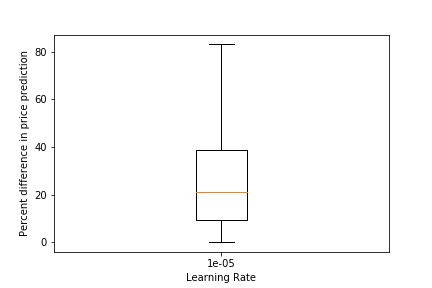
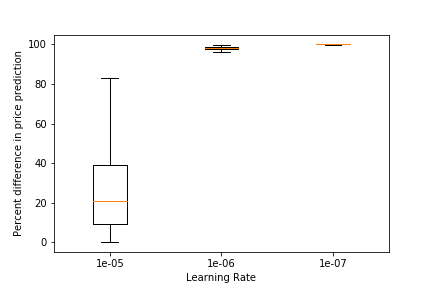
part 2 done, need to test with more epochs

diff --git a/part_2.py b/part_2.py
@@ -1,0 +1,309 @@
+"""
+Author: Masafumi Endo
+Date: 2019/10/13
+Version: Python 3.6
+"""
+
+import numpy as np
+import pandas as pd
+import matplotlib.pyplot as plt
+
+
+class LinearRegression:
+
+    # Public method
+    def train(self, x_train, y_train, lr, regularization, epsilon):
+
+        #weight = np.random.random_sample(x_train.shape[1])
+        weight = np.zeros(x_train.shape[1])
+        weight_ref = weight
+
+        error_train = self.__calc_error(x_train, y_train, weight)
+        error_train_normalize = error_train / x_train.shape[0]
+        error_train_pre = error_train
+
+        epoch = 1
+        max_epoch = 10
+        count = 0  # To check whether exploding
+        flag_div = False
+
+        while True:
+            gradient = 0
+
+            for j in range(x_train.shape[0]):
+                _x = x_train[j, :]
+                _y = y_train[j]
+                _z = self.__regression(_x, weight)
+
+                _gradient = - 2 * (_y - _z) * _x
+                gradient += _gradient
+
+            # gradient_normalize = gradient / (x_train.shape[0])gradient_normalize
+            gradient += 2 * regularization * weight
+
+            # Weight update
+            weight = weight - lr * gradient
+
+            # Calculate training error
+            _error_train = self.__calc_error(x_train, y_train, weight)          # SSE
+            _error_train_normalize = _error_train / x_train.shape[0]
+            error_train_normalize = np.append(error_train_normalize, _error_train_normalize)
+
+            norm_gradient = np.sqrt(np.dot(gradient, gradient))  # Norm of the gradient
+            #print(_error_train)
+
+            # Save weight at each epoch for calculating validation error
+            weight_ref = np.append(weight_ref, weight)
+
+            if error_train_pre < _error_train:
+                count += 1
+                error_train_pre = _error_train
+            else:
+                count = 0
+                error_train_pre = _error_train
+
+            if norm_gradient <= epsilon or epoch > max_epoch or count > 9:
+                if count > 9:
+                    flag_div = True
+                break
+            
+            epoch += 1
+
+        weight_ref = np.reshape(weight_ref, (-1, x_train.shape[1]))
+
+        return weight, weight_ref, error_train_normalize, epoch, flag_div
+
+    def valid(self, x_valid, y_valid, weight_ref, epoch):
+
+        error_valid = np.zeros(epoch)
+
+        # Loop for computing error
+        for i in range(epoch):
+            _weight = weight_ref[i, :]
+            error_valid[i] = self.__calc_error(x_valid, y_valid, _weight)
+
+        error_valid_normalize = error_valid # / x_valid.shape[0]
+        return error_valid_normalize
+
+    def predict(self, x_test, weight, x_min, x_max):
+
+        num = x_test.shape[0]
+        y_test = np.zeros(num)
+
+        for i in range(num):
+            y_test[i] = self.__regression(x_test[i, :], weight)
+            y_test[i] = (x_max - x_min) * y_test[i] + x_min  # Reverse the normalization
+         #   print("Predicted cost is $", y_test[i], ".")
+
+        return y_test
+
+    def error_graph(self, figname, error,  flag_div, title):
+
+        if flag_div == True: 
+            fig = plt.figure()
+            plt.plot(np.arange(0, error.shape[0]), error)
+            
+            plt.xlabel('epoch')
+            plt.ylabel('loss')
+           
+            plt.yscale('log')
+            plt.xscale('log')
+            plt.title(str(title))
+            plt.savefig('figure_part2/' + figname, bbox_inches = "tight")
+            plt.close(fig)
+            
+        else:
+            fig = plt.figure()
+            plt.plot(np.arange(0, error.shape[0]), error)
+            plt.xlabel('epoch')
+            plt.ylabel('loss')
+            plt.title(str(title))
+            plt.savefig('figure_part2/' + figname, bbox_inches = "tight")
+            plt.close(fig)
+
+    def __regression(self, x, weight):
+
+        return np.dot(x, weight)
+
+    def __calc_error(self, x, y, weight):
+
+        num = x.shape[0]
+        error = 0.
+
+        # Loop for calculating error at each target
+        for i in range(num):
+            _x = x[i, :]
+            _y = y[i]
+
+            _z = self.__regression(_x, weight)
+            error += (_y - _z) ** 2
+
+        return error
+
+    def plot_sse_epoch(self, dict_sse, title):
+        fig = plt.figure()
+        for r in dict_sse:
+            plt.plot(dict_sse[r], label=str(r))
+        plt.xlabel('epoch')
+        plt.ylabel('SSE')
+        plt.legend()
+        plt.yscale('log')
+        plt.xscale('log')
+        #plt.show()
+        plt.savefig('figure_part2/{}_sse_epoch_reg.png'.format(title), bbox_inches = "tight")
+        plt.close(fig)
+
+    def percent_diff(self, y_actual, y_pred):
+        percent_diff = 100*(np.abs(y_actual - y_pred)) / y_actual #absolute percent difference
+        return percent_diff
+        
+    def plot_box_r(self, dict_error):
+        fig = plt.figure()
+        
+        # or backwards compatable    
+        labels, data = dict_error.keys(), dict_error.values()
+        
+        plt.boxplot(data, showfliers=False)
+        plt.xticks(range(1, len(labels) + 1), labels)        
+        plt.xlabel('Regularization')
+        plt.ylabel('Percent difference in price prediction')
+        #plt.show()
+        plt.savefig('figure_part2/percent_diff_boxplot.png', bbox_inches = "tight")
+        plt.close(fig)
+
+class FeatureEngineering:
+
+    def train(self, path):
+        df = pd.read_csv(path)
+        x = df.drop(['dummy', 'id'], axis=1)
+
+        x_datetime = pd.to_datetime(x['date'], infer_datetime_format=True)
+        x_year, x_month, x_day = x_datetime.dt.year, x_datetime.dt.month, x_datetime.dt.day
+        x_date = pd.DataFrame({'year': x_year, 'month': x_month, 'day': x_day})
+        x = x.drop(['date'], axis=1)
+        x = pd.concat([x_date, x], axis=1)
+
+        x_min = x.min()
+        x_max = x.max()
+
+        x_normalized = (x - x_min) / (x_max - x_min)
+
+       # x_id = df.loc[:, 'dummy']  # Dummy variable
+       # x_normalized = pd.concat([x_id, x_normalized], axis=1)  # Add dummy
+        y = x_normalized.loc[:, 'price']
+        x_normalized = x_normalized.drop(['price'], axis=1)  # Remove price
+
+        x, y = x_normalized.values, y.values
+
+        return x, y, x_min, x_max
+
+    def valid(self, path, x_min, x_max):
+        df = pd.read_csv(path)
+        x = df.drop(['dummy', 'id'], axis=1)
+
+        x_datetime = pd.to_datetime(x['date'], infer_datetime_format=True)
+        x_year, x_month, x_day = x_datetime.dt.year, x_datetime.dt.month, x_datetime.dt.day
+        x_date = pd.DataFrame({'year': x_year, 'month': x_month, 'day': x_day})
+        x = x.drop(['date'], axis=1)
+        x = pd.concat([x_date, x], axis=1)
+
+        x_normalized = (x - x_min) / (x_max - x_min)
+
+       # x_id = df.loc[:, 'dummy']
+       # x_normalized = pd.concat([x_id, x_normalized], axis=1)
+
+        y = x_normalized.loc[:, 'price']
+        x_normalized = x_normalized.drop(['price'], axis=1)  # Remove price
+
+        x, y = x_normalized.values, y.values
+
+        return x, y
+
+    def predict(self, path, x_min, x_max):
+        x_min = x_min.drop(['price'])
+        x_max = x_max.drop(['price'])
+
+        df = pd.read_csv(path)
+        x = df.drop(['dummy', 'id'], axis=1)
+
+        x_datetime = pd.to_datetime(x['date'], infer_datetime_format=True)
+        x_year, x_month, x_day = x_datetime.dt.year, x_datetime.dt.month, x_datetime.dt.day
+        x_date = pd.DataFrame({'year': x_year, 'month': x_month, 'day': x_day})
+        x = x.drop(['date'], axis=1)
+        x = pd.concat([x_date, x], axis=1)
+
+        x_normalized = (x - x_min) / (x_max - x_min)
+      #  x_id = df.loc[:, 'dummy']
+       # x_normalized = pd.concat([x_id, x_normalized], axis=1)
+
+        x = x_normalized.values
+
+        return x
+
+#def main():
+
+
+
+if __name__ == '__main__':
+    #main()
+
+    feature_eng = FeatureEngineering()
+
+#    x_train, y_train, x_min, x_max = feature_eng.train('C:\Fall 2019\CS534_MachineLearning\PA1_train.csv')
+#    x_valid, y_valid = feature_eng.valid('C:\Fall 2019\CS534_MachineLearning\PA1_dev.csv', x_min, x_max)
+#    x_test = feature_eng.predict('C:\Fall 2019\CS534_MachineLearning\PA1_test.csv', x_min, x_max)
+
+    x_train, y_train, x_min, x_max = feature_eng.train('PA1_train.csv')
+    x_valid, y_valid_true = feature_eng.valid('PA1_dev.csv', x_min, x_max)
+    x_test = feature_eng.predict('PA1_test.csv', x_min, x_max)
+
+
+    regularization = [0, 1e-3, 1e-2, 1e-1, 1, 10, 100]
+    epsilon = 0.5
+    lr = 1e-5
+    
+    features = x_min.index
+    features = features[:-1]
+    
+    dict_valid_sse = {} 
+    dict_train_sse = {}
+    dict_pred = {}
+    df_weight = pd.DataFrame(index = features, columns = regularization)
+    df_sse = pd.DataFrame(index=regularization, columns = ["Train SSE", "Validation SSE"])
+
+    for r in regularization:
+        print(r)
+        linear_regression = LinearRegression()
+
+        weight, weight_ref, error_train_normalize, epoch, flag_div = linear_regression.train(x_train, y_train, lr, r, epsilon)
+        error_valid_normalize = linear_regression.valid(x_valid, y_valid_true, weight_ref, epoch)
+
+        linear_regression.error_graph('train_error_reg{}.png'.format(r), error_train_normalize, flag_div, "Training SSE")
+        linear_regression.error_graph('valid_error_reg{}.png'.format(r), error_valid_normalize, flag_div, "Validation SSE")
+        
+        y_test = linear_regression.predict(x_test, weight, x_min.loc['price'], x_max.loc['price'])
+        
+        df_weight.loc[:, r] = weight
+        df_sse.loc[r, "Train SSE"] = error_train_normalize[-1]
+        df_sse.loc[r, "Validation SSE"] = error_valid_normalize[-1]
+        
+        if flag_div == False: 
+            y_valid_pred = linear_regression.predict(x_valid, weight, x_min.loc['price'], x_max.loc['price'])
+            y_valid_true = (x_max.price - x_min.price) * y_valid_true + x_min.price
+            diff = linear_regression.percent_diff(y_valid_true, y_valid_pred)
+            dict_pred[r] = diff
+
+            dict_valid_sse[r] = error_valid_normalize
+            dict_train_sse[r] = error_train_normalize
+
+    linear_regression.plot_sse_epoch(dict_train_sse, "Train")
+    linear_regression.plot_sse_epoch(dict_valid_sse, "Validation")
+
+    linear_regression.plot_box_r(dict_pred)
+    
+    print("Weights for various regularization parameters:")
+    print(df_weight)
+    
+    print("SSE:")
+    print(df_sse)
+        
